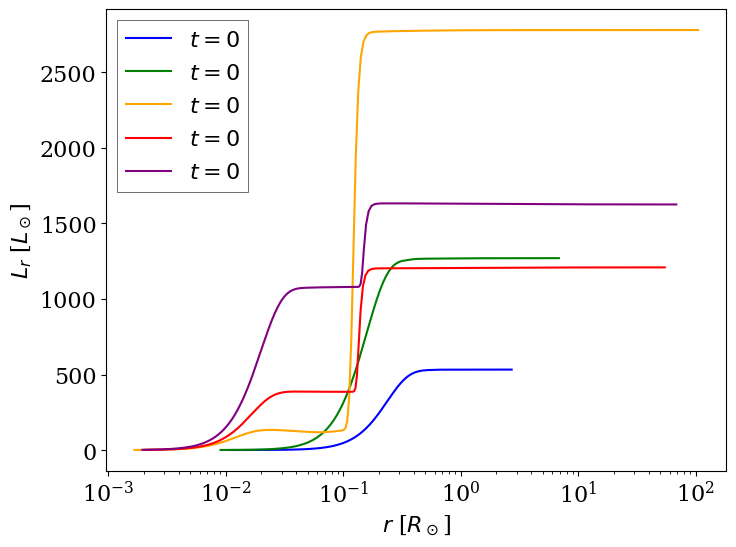
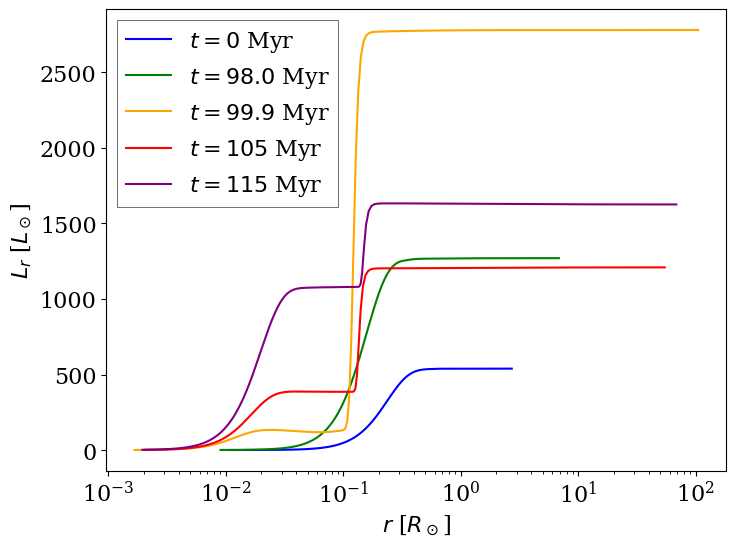
Updated plots with correct time labels

diff --git a/Python and Data/Task 3.1.py b/Python and Data/Task 3.1.py
@@ -1,153 +1,155 @@
 import Plots
-ax = Plots.setupPlots(horizontal=1,vertical=1)
-Plots.addPlot("M=5, Z=0.02",detailed=False,xvalues=2,yvalues=6,ax=ax,ylog=False,scatter=False,flipXaxis=False,label="$M=5M_\odot$, Z=0.02",color="red",markerSize=0)
-Plots.endPlots("Time-Ts, M=5, Z=0.02")
+# ax = Plots.setupPlots(horizontal=1,vertical=1)
+# Plots.addPlot("M=5, Z=0.02",detailed=False,xvalues=2,yvalues=6,ax=ax,ylog=False,scatter=False,flipXaxis=False,label="$M=5M_\odot$, Z=0.02",color="red",markerSize=0)
+# Plots.endPlots("Time-Ts, M=5, Z=0.02")
 
-ax = Plots.setupPlots(horizontal=1,vertical=1)
-Plots.addPlot("M=50, Z=0.02",detailed=False,xvalues=2,yvalues=6,ax=ax,ylog=False,scatter=False,flipXaxis=False,label="$M=50M_\odot$, Z=0.02",color="red",markerSize=0)
-Plots.endPlots("Time-Ts, M=50, Z=0.02")
+# ax = Plots.setupPlots(horizontal=1,vertical=1)
+# Plots.addPlot("M=50, Z=0.02",detailed=False,xvalues=2,yvalues=6,ax=ax,ylog=False,scatter=False,flipXaxis=False,label="$M=50M_\odot$, Z=0.02",color="red",markerSize=0)
+# Plots.endPlots("Time-Ts, M=50, Z=0.02")
 
-ax = Plots.setupPlots(horizontal=1,vertical=1)
-Plots.addPlot("M=5, Z=0.02",detailed=False,xvalues=2,yvalues=4,ax=ax,ylog=False,scatter=False,flipXaxis=False,label="$M=5M_\odot$, Z=0.02",color="red",markerSize=0)
-Plots.endPlots("Time-L, M=5, Z=0.02")
+# ax = Plots.setupPlots(horizontal=1,vertical=1)
+# Plots.addPlot("M=5, Z=0.02",detailed=False,xvalues=2,yvalues=4,ax=ax,ylog=False,scatter=False,flipXaxis=False,label="$M=5M_\odot$, Z=0.02",color="red",markerSize=0)
+# Plots.endPlots("Time-L, M=5, Z=0.02")
 
-ax = Plots.setupPlots(horizontal=1,vertical=1)
-Plots.addPlot("M=50, Z=0.02",detailed=False,xvalues=2,yvalues=4,ax=ax,ylog=False,scatter=False,flipXaxis=False,label="$M=50M_\odot$, Z=0.02",color="red",markerSize=0)
-Plots.endPlots("Time-L, M=50, Z=0.02")
+# ax = Plots.setupPlots(horizontal=1,vertical=1)
+# Plots.addPlot("M=50, Z=0.02",detailed=False,xvalues=2,yvalues=4,ax=ax,ylog=False,scatter=False,flipXaxis=False,label="$M=50M_\odot$, Z=0.02",color="red",markerSize=0)
+# Plots.endPlots("Time-L, M=50, Z=0.02")
 
-ax = Plots.setupPlots(horizontal=1,vertical=1)
-Plots.addPlot("M=5, Z=0.02",detailed=False,xvalues=2,yvalues=8,ax=ax,ylog=False,scatter=False,flipXaxis=False,label="$M=5M_\odot$, Z=0.02",color="red",markerSize=0)
-Plots.endPlots("Time-Rhoc, M=5, Z=0.02")
+# ax = Plots.setupPlots(horizontal=1,vertical=1)
+# Plots.addPlot("M=5, Z=0.02",detailed=False,xvalues=2,yvalues=8,ax=ax,ylog=False,scatter=False,flipXaxis=False,label="$M=5M_\odot$, Z=0.02",color="red",markerSize=0)
+# Plots.endPlots("Time-Rhoc, M=5, Z=0.02")
 
-ax = Plots.setupPlots(horizontal=1,vertical=1)
-Plots.addPlot("M=50, Z=0.02",detailed=False,xvalues=2,yvalues=8,ax=ax,ylog=False,scatter=False,flipXaxis=False,label="$M=50M_\odot$, Z=0.02",color="red",markerSize=0)
-Plots.endPlots("Time-Rhoc, M=50, Z=0.02")
+# ax = Plots.setupPlots(horizontal=1,vertical=1)
+# Plots.addPlot("M=50, Z=0.02",detailed=False,xvalues=2,yvalues=8,ax=ax,ylog=False,scatter=False,flipXaxis=False,label="$M=50M_\odot$, Z=0.02",color="red",markerSize=0)
+# Plots.endPlots("Time-Rhoc, M=50, Z=0.02")
 
-ax = Plots.setupPlots(horizontal=1,vertical=1)
-Plots.addPlot("M=5, Z=0.02",detailed=False,xvalues=2,yvalues=7,ax=ax,ylog=False,scatter=False,flipXaxis=False,label="$M=5M_\odot$, Z=0.02",color="red",markerSize=0)
-Plots.endPlots("Time-Tc, M=5, Z=0.02")
+# ax = Plots.setupPlots(horizontal=1,vertical=1)
+# Plots.addPlot("M=5, Z=0.02",detailed=False,xvalues=2,yvalues=7,ax=ax,ylog=False,scatter=False,flipXaxis=False,label="$M=5M_\odot$, Z=0.02",color="red",markerSize=0)
+# Plots.endPlots("Time-Tc, M=5, Z=0.02")
 
-ax = Plots.setupPlots(horizontal=1,vertical=1)
-Plots.addPlot("M=50, Z=0.02",detailed=False,xvalues=2,yvalues=7,ax=ax,ylog=False,scatter=False,flipXaxis=False,label="$M=50M_\odot$, Z=0.02",color="red",markerSize=0)
-Plots.endPlots("Time-Tc, M=50, Z=0.02")
+# ax = Plots.setupPlots(horizontal=1,vertical=1)
+# Plots.addPlot("M=50, Z=0.02",detailed=False,xvalues=2,yvalues=7,ax=ax,ylog=False,scatter=False,flipXaxis=False,label="$M=50M_\odot$, Z=0.02",color="red",markerSize=0)
+# Plots.endPlots("Time-Tc, M=50, Z=0.02")
+# # #----------------------
+# # ### Ts-L
+# ax = Plots.setupPlots(horizontal=1,vertical=1)
+# Plots.addPlot("M=5, Z=0.02",detailed=False,xvalues=6,yvalues=4,ax=ax,ylog=False,scatter=False,flipXaxis=False,label="$M=5M_\odot$, Z=0.02",color="blue",markerSize=0)
+# # Plots.endPlots("Ts-L, M=5, Z=0.02")
+
+# # ax = Plots.setupPlots(horizontal=1,vertical=1)
+# Plots.addPlot("M=50, Z=0.02",detailed=False,xvalues=6,yvalues=4,ax=ax,ylog=False,scatter=False,flipXaxis=False,label="$M=50M_\odot$, Z=0.02",color="red",markerSize=0)
+# Plots.endPlots("Ts-L, Z=0.02")
+
+# ### Ts-Rhoc
+# ax = Plots.setupPlots(horizontal=1,vertical=1)
+# Plots.addPlot("M=5, Z=0.02",detailed=False,xvalues=6,yvalues=8,ax=ax,ylog=False,scatter=False,flipXaxis=False,label="$M=5M_\odot$, Z=0.02",color="blue",markerSize=0)
+# # Plots.endPlots("Ts-Rhoc, M=5, Z=0.02")
+
+# # ax = Plots.setupPlots(horizontal=1,vertical=1)
+# Plots.addPlot("M=50, Z=0.02",detailed=False,xvalues=6,yvalues=8,ax=ax,ylog=False,scatter=False,flipXaxis=False,label="$M=50M_\odot$, Z=0.02",color="red",markerSize=0)
+# Plots.endPlots("Ts-Rhoc, Z=0.02")
+
+# ### Ts-Tc
+# ax = Plots.setupPlots(horizontal=1,vertical=1)
+# Plots.addPlot("M=5, Z=0.02",detailed=False,xvalues=6,yvalues=7,ax=ax,ylog=False,scatter=False,flipXaxis=False,label="$M=5M_\odot$, Z=0.02",color="blue",markerSize=0)
+# # Plots.endPlots("Ts-Tc, M=5, Z=0.02")
+
+# # ax = Plots.setupPlots(horizontal=1,vertical=1)
+# Plots.addPlot("M=50, Z=0.02",detailed=False,xvalues=6,yvalues=7,ax=ax,ylog=False,scatter=False,flipXaxis=False,label="$M=50M_\odot$, Z=0.02",color="red",markerSize=0)
+# Plots.endPlots("Ts-Tc, Z=0.02")
+
+# ### Tc-L
+# ax = Plots.setupPlots(horizontal=1,vertical=1)
+# Plots.addPlot("M=5, Z=0.02",detailed=False,xvalues=7,yvalues=4,ax=ax,ylog=False,scatter=False,flipXaxis=False,label="$M=5M_\odot$, Z=0.02",color="blue",markerSize=0)
+# # Plots.endPlots("Tc-L, M=5, Z=0.02")
+
+# # ax = Plots.setupPlots(horizontal=1,vertical=1)
+# Plots.addPlot("M=50, Z=0.02",detailed=False,xvalues=7,yvalues=4,ax=ax,ylog=False,scatter=False,flipXaxis=False,label="$M=50M_\odot$, Z=0.02",color="red",markerSize=0)
+# Plots.endPlots("Tc-L, Z=0.02")
+
+# ### Tc-Rhoc
+# ax = Plots.setupPlots(horizontal=1,vertical=1)
+# Plots.addPlot("M=5, Z=0.02",detailed=False,xvalues=7,yvalues=8,ax=ax,ylog=False,scatter=False,flipXaxis=False,label="$M=5M_\odot$, Z=0.02",color="blue",markerSize=0)
+# # Plots.endPlots("Tc-Rhoc, M=5, Z=0.02")
+
+# # ax = Plots.setupPlots(horizontal=1,vertical=1)
+# Plots.addPlot("M=50, Z=0.02",detailed=False,xvalues=7,yvalues=8,ax=ax,ylog=False,scatter=False,flipXaxis=False,label="$M=50M_\odot$, Z=0.02",color="red",markerSize=0)
+# Plots.endPlots("Tc-Rhoc, Z=0.02")
+
+# ### Rhoc-L
+# ax = Plots.setupPlots(horizontal=1,vertical=1)
+# Plots.addPlot("M=5, Z=0.02",detailed=False,xvalues=8,yvalues=4,ax=ax,ylog=False,scatter=False,flipXaxis=False,label="$M=5M_\odot$, Z=0.02",color="blue",markerSize=0)
+# # Plots.endPlots("Rhoc-L, M=5, Z=0.02")
+
+# # ax = Plots.setupPlots(horizontal=1,vertical=1)
+# Plots.addPlot("M=50, Z=0.02",detailed=False,xvalues=8,yvalues=4,ax=ax,ylog=False,scatter=False,flipXaxis=False,label="$M=50M_\odot$, Z=0.02",color="red",markerSize=0)
+# Plots.endPlots("Rhoc-L, Z=0.02")
+
 # #----------------------
-# ### Ts-L
+t_index_Mass5 = [1,100,300,500,700]
+t_index_Mass50 = [1,100,300,500,700]
+t_years_Mass5 = ["0","98.0","99.9","105","115"]
+t_years_Mass50 = ["0","3.1","3.8","4.1","4.2"]
 ax = Plots.setupPlots(horizontal=1,vertical=1)
-Plots.addPlot("M=5, Z=0.02",detailed=False,xvalues=6,yvalues=4,ax=ax,ylog=False,scatter=False,flipXaxis=False,label="$M=5M_\odot$, Z=0.02",color="blue",markerSize=0)
-# Plots.endPlots("Ts-L, M=5, Z=0.02")
-
-# ax = Plots.setupPlots(horizontal=1,vertical=1)
-Plots.addPlot("M=50, Z=0.02",detailed=False,xvalues=6,yvalues=4,ax=ax,ylog=False,scatter=False,flipXaxis=False,label="$M=50M_\odot$, Z=0.02",color="red",markerSize=0)
-Plots.endPlots("Ts-L, Z=0.02")
-
-### Ts-Rhoc
-ax = Plots.setupPlots(horizontal=1,vertical=1)
-Plots.addPlot("M=5, Z=0.02",detailed=False,xvalues=6,yvalues=8,ax=ax,ylog=False,scatter=False,flipXaxis=False,label="$M=5M_\odot$, Z=0.02",color="blue",markerSize=0)
-# Plots.endPlots("Ts-Rhoc, M=5, Z=0.02")
-
-# ax = Plots.setupPlots(horizontal=1,vertical=1)
-Plots.addPlot("M=50, Z=0.02",detailed=False,xvalues=6,yvalues=8,ax=ax,ylog=False,scatter=False,flipXaxis=False,label="$M=50M_\odot$, Z=0.02",color="red",markerSize=0)
-Plots.endPlots("Ts-Rhoc, Z=0.02")
-
-### Ts-Tc
-ax = Plots.setupPlots(horizontal=1,vertical=1)
-Plots.addPlot("M=5, Z=0.02",detailed=False,xvalues=6,yvalues=7,ax=ax,ylog=False,scatter=False,flipXaxis=False,label="$M=5M_\odot$, Z=0.02",color="blue",markerSize=0)
-# Plots.endPlots("Ts-Tc, M=5, Z=0.02")
-
-# ax = Plots.setupPlots(horizontal=1,vertical=1)
-Plots.addPlot("M=50, Z=0.02",detailed=False,xvalues=6,yvalues=7,ax=ax,ylog=False,scatter=False,flipXaxis=False,label="$M=50M_\odot$, Z=0.02",color="red",markerSize=0)
-Plots.endPlots("Ts-Tc, Z=0.02")
-
-### Tc-L
-ax = Plots.setupPlots(horizontal=1,vertical=1)
-Plots.addPlot("M=5, Z=0.02",detailed=False,xvalues=7,yvalues=4,ax=ax,ylog=False,scatter=False,flipXaxis=False,label="$M=5M_\odot$, Z=0.02",color="blue",markerSize=0)
-# Plots.endPlots("Tc-L, M=5, Z=0.02")
-
-# ax = Plots.setupPlots(horizontal=1,vertical=1)
-Plots.addPlot("M=50, Z=0.02",detailed=False,xvalues=7,yvalues=4,ax=ax,ylog=False,scatter=False,flipXaxis=False,label="$M=50M_\odot$, Z=0.02",color="red",markerSize=0)
-Plots.endPlots("Tc-L, Z=0.02")
-
-### Tc-Rhoc
-ax = Plots.setupPlots(horizontal=1,vertical=1)
-Plots.addPlot("M=5, Z=0.02",detailed=False,xvalues=7,yvalues=8,ax=ax,ylog=False,scatter=False,flipXaxis=False,label="$M=5M_\odot$, Z=0.02",color="blue",markerSize=0)
-# Plots.endPlots("Tc-Rhoc, M=5, Z=0.02")
-
-# ax = Plots.setupPlots(horizontal=1,vertical=1)
-Plots.addPlot("M=50, Z=0.02",detailed=False,xvalues=7,yvalues=8,ax=ax,ylog=False,scatter=False,flipXaxis=False,label="$M=50M_\odot$, Z=0.02",color="red",markerSize=0)
-Plots.endPlots("Tc-Rhoc, Z=0.02")
-
-### Rhoc-L
-ax = Plots.setupPlots(horizontal=1,vertical=1)
-Plots.addPlot("M=5, Z=0.02",detailed=False,xvalues=8,yvalues=4,ax=ax,ylog=False,scatter=False,flipXaxis=False,label="$M=5M_\odot$, Z=0.02",color="blue",markerSize=0)
-# Plots.endPlots("Rhoc-L, M=5, Z=0.02")
-
-# ax = Plots.setupPlots(horizontal=1,vertical=1)
-Plots.addPlot("M=50, Z=0.02",detailed=False,xvalues=8,yvalues=4,ax=ax,ylog=False,scatter=False,flipXaxis=False,label="$M=50M_\odot$, Z=0.02",color="red",markerSize=0)
-Plots.endPlots("Rhoc-L, Z=0.02")
-
-# #----------------------
-t_Mass5 = [0,100,300,500,700]
-t_Mass50 = [0,100,300,500,700]
-ax = Plots.setupPlots(horizontal=1,vertical=1)
-Plots.addPlot("M=5, Z=0.02",detailed=True,xvalues=2,yvalues=5,timeIndex=t_Mass5[0],ax=ax,ylog=True,xlog=True,scatter=False,flipXaxis=False,label="$t=0$",color="blue",markerSize=0)
-Plots.addPlot("M=5, Z=0.02",detailed=True,xvalues=2,yvalues=5,timeIndex=t_Mass5[1],ax=ax,ylog=True,xlog=True,scatter=False,flipXaxis=False,label="$t=0$",color="green",markerSize=0)
-Plots.addPlot("M=5, Z=0.02",detailed=True,xvalues=2,yvalues=5,timeIndex=t_Mass5[2],ax=ax,ylog=True,xlog=True,scatter=False,flipXaxis=False,label="$t=0$",color="orange",markerSize=0)
-Plots.addPlot("M=5, Z=0.02",detailed=True,xvalues=2,yvalues=5,timeIndex=t_Mass5[3],ax=ax,ylog=True,xlog=True,scatter=False,flipXaxis=False,label="$t=0$",color="red",markerSize=0)
-Plots.addPlot("M=5, Z=0.02",detailed=True,xvalues=2,yvalues=5,timeIndex=t_Mass5[4],ax=ax,ylog=True,xlog=True,scatter=False,flipXaxis=False,label="$t=0$",color="purple",markerSize=0)
+Plots.addPlot("M=5, Z=0.02",detailed=True,xvalues=2,yvalues=5,timeIndex=t_index_Mass5[0],ax=ax,ylog=True,xlog=True,scatter=False,flipXaxis=False,label="$t="+t_years_Mass5[0]+"$ Myr",color="blue",markerSize=0)
+Plots.addPlot("M=5, Z=0.02",detailed=True,xvalues=2,yvalues=5,timeIndex=t_index_Mass5[1],ax=ax,ylog=True,xlog=True,scatter=False,flipXaxis=False,label="$t="+t_years_Mass5[1]+"$ Myr",color="green",markerSize=0)
+Plots.addPlot("M=5, Z=0.02",detailed=True,xvalues=2,yvalues=5,timeIndex=t_index_Mass5[2],ax=ax,ylog=True,xlog=True,scatter=False,flipXaxis=False,label="$t="+t_years_Mass5[2]+"$ Myr",color="orange",markerSize=0)
+Plots.addPlot("M=5, Z=0.02",detailed=True,xvalues=2,yvalues=5,timeIndex=t_index_Mass5[3],ax=ax,ylog=True,xlog=True,scatter=False,flipXaxis=False,label="$t="+t_years_Mass5[3]+"$ Myr",color="red",markerSize=0)
+Plots.addPlot("M=5, Z=0.02",detailed=True,xvalues=2,yvalues=5,timeIndex=t_index_Mass5[4],ax=ax,ylog=True,xlog=True,scatter=False,flipXaxis=False,label="$t="+t_years_Mass5[4]+"$ Myr",color="purple",markerSize=0)
 Plots.endPlots("R-Rho, M=5, Z=0.02")
 
 ax = Plots.setupPlots(horizontal=1,vertical=1)
-Plots.addPlot("M=50, Z=0.02",detailed=True,xvalues=2,yvalues=5,timeIndex=t_Mass50[0],ax=ax,ylog=True,xlog=True,scatter=False,flipXaxis=False,label="$t=0$",color="blue",markerSize=0)
-Plots.addPlot("M=50, Z=0.02",detailed=True,xvalues=2,yvalues=5,timeIndex=t_Mass50[1],ax=ax,ylog=True,xlog=True,scatter=False,flipXaxis=False,label="$t=0$",color="green",markerSize=0)
-Plots.addPlot("M=50, Z=0.02",detailed=True,xvalues=2,yvalues=5,timeIndex=t_Mass50[2],ax=ax,ylog=True,xlog=True,scatter=False,flipXaxis=False,label="$t=0$",color="orange",markerSize=0)
-Plots.addPlot("M=50, Z=0.02",detailed=True,xvalues=2,yvalues=5,timeIndex=t_Mass50[3],ax=ax,ylog=True,xlog=True,scatter=False,flipXaxis=False,label="$t=0$",color="red",markerSize=0)
-Plots.addPlot("M=50, Z=0.02",detailed=True,xvalues=2,yvalues=5,timeIndex=t_Mass50[4],ax=ax,ylog=True,xlog=True,scatter=False,flipXaxis=False,label="$t=0$",color="purple",markerSize=0)
+Plots.addPlot("M=50, Z=0.02",detailed=True,xvalues=2,yvalues=5,timeIndex=t_index_Mass50[0],ax=ax,ylog=True,xlog=True,scatter=False,flipXaxis=False,label="$t="+t_years_Mass50[0]+"$ Myr",color="blue",markerSize=0)
+Plots.addPlot("M=50, Z=0.02",detailed=True,xvalues=2,yvalues=5,timeIndex=t_index_Mass50[1],ax=ax,ylog=True,xlog=True,scatter=False,flipXaxis=False,label="$t="+t_years_Mass50[1]+"$ Myr",color="green",markerSize=0)
+Plots.addPlot("M=50, Z=0.02",detailed=True,xvalues=2,yvalues=5,timeIndex=t_index_Mass50[2],ax=ax,ylog=True,xlog=True,scatter=False,flipXaxis=False,label="$t="+t_years_Mass50[2]+"$ Myr",color="orange",markerSize=0)
+Plots.addPlot("M=50, Z=0.02",detailed=True,xvalues=2,yvalues=5,timeIndex=t_index_Mass50[3],ax=ax,ylog=True,xlog=True,scatter=False,flipXaxis=False,label="$t="+t_years_Mass50[3]+"$ Myr",color="red",markerSize=0)
+Plots.addPlot("M=50, Z=0.02",detailed=True,xvalues=2,yvalues=5,timeIndex=t_index_Mass50[4],ax=ax,ylog=True,xlog=True,scatter=False,flipXaxis=False,label="$t="+t_years_Mass50[4]+"$ Myr",color="purple",markerSize=0)
 Plots.endPlots("R-Rho, M=50, Z=0.02")
 
 ax = Plots.setupPlots(horizontal=1,vertical=1)
-Plots.addPlot("M=5, Z=0.02",detailed=True,xvalues=2,yvalues=6,timeIndex=t_Mass5[0],ax=ax,ylog=False,xlog=True,scatter=False,flipXaxis=False,label="$t=0$",color="blue",markerSize=0)
-Plots.addPlot("M=5, Z=0.02",detailed=True,xvalues=2,yvalues=6,timeIndex=t_Mass5[1],ax=ax,ylog=False,xlog=True,scatter=False,flipXaxis=False,label="$t=0$",color="green",markerSize=0)
-Plots.addPlot("M=5, Z=0.02",detailed=True,xvalues=2,yvalues=6,timeIndex=t_Mass5[2],ax=ax,ylog=False,xlog=True,scatter=False,flipXaxis=False,label="$t=0$",color="orange",markerSize=0)
-Plots.addPlot("M=5, Z=0.02",detailed=True,xvalues=2,yvalues=6,timeIndex=t_Mass5[3],ax=ax,ylog=False,xlog=True,scatter=False,flipXaxis=False,label="$t=0$",color="red",markerSize=0)
-Plots.addPlot("M=5, Z=0.02",detailed=True,xvalues=2,yvalues=6,timeIndex=t_Mass5[4],ax=ax,ylog=False,xlog=True,scatter=False,flipXaxis=False,label="$t=0$",color="purple",markerSize=0)
+Plots.addPlot("M=5, Z=0.02",detailed=True,xvalues=2,yvalues=6,timeIndex=t_index_Mass5[0],ax=ax,ylog=False,xlog=True,scatter=False,flipXaxis=False,label="$t="+t_years_Mass5[0]+"$ Myr",color="blue",markerSize=0)
+Plots.addPlot("M=5, Z=0.02",detailed=True,xvalues=2,yvalues=6,timeIndex=t_index_Mass5[1],ax=ax,ylog=False,xlog=True,scatter=False,flipXaxis=False,label="$t="+t_years_Mass5[1]+"$ Myr",color="green",markerSize=0)
+Plots.addPlot("M=5, Z=0.02",detailed=True,xvalues=2,yvalues=6,timeIndex=t_index_Mass5[2],ax=ax,ylog=False,xlog=True,scatter=False,flipXaxis=False,label="$t="+t_years_Mass5[2]+"$ Myr",color="orange",markerSize=0)
+Plots.addPlot("M=5, Z=0.02",detailed=True,xvalues=2,yvalues=6,timeIndex=t_index_Mass5[3],ax=ax,ylog=False,xlog=True,scatter=False,flipXaxis=False,label="$t="+t_years_Mass5[3]+"$ Myr",color="red",markerSize=0)
+Plots.addPlot("M=5, Z=0.02",detailed=True,xvalues=2,yvalues=6,timeIndex=t_index_Mass5[4],ax=ax,ylog=False,xlog=True,scatter=False,flipXaxis=False,label="$t="+t_years_Mass5[4]+"$ Myr",color="purple",markerSize=0)
 Plots.endPlots("R-T, M=5, Z=0.02")
 
 ax = Plots.setupPlots(horizontal=1,vertical=1)
-Plots.addPlot("M=50, Z=0.02",detailed=True,xvalues=2,yvalues=6,timeIndex=t_Mass50[0],ax=ax,ylog=False,xlog=True,scatter=False,flipXaxis=False,label="$t=0$",color="blue",markerSize=0)
-Plots.addPlot("M=50, Z=0.02",detailed=True,xvalues=2,yvalues=6,timeIndex=t_Mass50[1],ax=ax,ylog=False,xlog=True,scatter=False,flipXaxis=False,label="$t=0$",color="green",markerSize=0)
-Plots.addPlot("M=50, Z=0.02",detailed=True,xvalues=2,yvalues=6,timeIndex=t_Mass50[2],ax=ax,ylog=False,xlog=True,scatter=False,flipXaxis=False,label="$t=0$",color="orange",markerSize=0)
-Plots.addPlot("M=50, Z=0.02",detailed=True,xvalues=2,yvalues=6,timeIndex=t_Mass50[3],ax=ax,ylog=False,xlog=True,scatter=False,flipXaxis=False,label="$t=0$",color="red",markerSize=0)
-Plots.addPlot("M=50, Z=0.02",detailed=True,xvalues=2,yvalues=6,timeIndex=t_Mass50[4],ax=ax,ylog=False,xlog=True,scatter=False,flipXaxis=False,label="$t=0$",color="purple",markerSize=0)
+Plots.addPlot("M=50, Z=0.02",detailed=True,xvalues=2,yvalues=6,timeIndex=t_index_Mass50[0],ax=ax,ylog=False,xlog=True,scatter=False,flipXaxis=False,label="$t="+t_years_Mass50[0]+"$ Myr",color="blue",markerSize=0)
+Plots.addPlot("M=50, Z=0.02",detailed=True,xvalues=2,yvalues=6,timeIndex=t_index_Mass50[1],ax=ax,ylog=False,xlog=True,scatter=False,flipXaxis=False,label="$t="+t_years_Mass50[1]+"$ Myr",color="green",markerSize=0)
+Plots.addPlot("M=50, Z=0.02",detailed=True,xvalues=2,yvalues=6,timeIndex=t_index_Mass50[2],ax=ax,ylog=False,xlog=True,scatter=False,flipXaxis=False,label="$t="+t_years_Mass50[2]+"$ Myr",color="orange",markerSize=0)
+Plots.addPlot("M=50, Z=0.02",detailed=True,xvalues=2,yvalues=6,timeIndex=t_index_Mass50[3],ax=ax,ylog=False,xlog=True,scatter=False,flipXaxis=False,label="$t="+t_years_Mass50[3]+"$ Myr",color="red",markerSize=0)
+Plots.addPlot("M=50, Z=0.02",detailed=True,xvalues=2,yvalues=6,timeIndex=t_index_Mass50[4],ax=ax,ylog=False,xlog=True,scatter=False,flipXaxis=False,label="$t="+t_years_Mass50[4]+"$ Myr",color="purple",markerSize=0)
 Plots.endPlots("R-T, M=50, Z=0.02")
 
 ax = Plots.setupPlots(horizontal=1,vertical=1)
-Plots.addPlot("M=5, Z=0.02",detailed=True,xvalues=2,yvalues=27,timeIndex=t_Mass5[0],ax=ax,ylog=False,xlog=True,scatter=False,flipXaxis=False,label="$t=0$",color="blue",markerSize=0)
-Plots.addPlot("M=5, Z=0.02",detailed=True,xvalues=2,yvalues=27,timeIndex=t_Mass5[1],ax=ax,ylog=False,xlog=True,scatter=False,flipXaxis=False,label="$t=0$",color="green",markerSize=0)
-Plots.addPlot("M=5, Z=0.02",detailed=True,xvalues=2,yvalues=27,timeIndex=t_Mass5[2],ax=ax,ylog=False,xlog=True,scatter=False,flipXaxis=False,label="$t=0$",color="orange",markerSize=0)
-Plots.addPlot("M=5, Z=0.02",detailed=True,xvalues=2,yvalues=27,timeIndex=t_Mass5[3],ax=ax,ylog=False,xlog=True,scatter=False,flipXaxis=False,label="$t=0$",color="red",markerSize=0)
-Plots.addPlot("M=5, Z=0.02",detailed=True,xvalues=2,yvalues=27,timeIndex=t_Mass5[4],ax=ax,ylog=False,xlog=True,scatter=False,flipXaxis=False,label="$t=0$",color="purple",markerSize=0)
+Plots.addPlot("M=5, Z=0.02",detailed=True,xvalues=2,yvalues=27,timeIndex=t_index_Mass5[0],ax=ax,ylog=False,xlog=True,scatter=False,flipXaxis=False,label="$t="+t_years_Mass5[0]+"$ Myr",color="blue",markerSize=0)
+Plots.addPlot("M=5, Z=0.02",detailed=True,xvalues=2,yvalues=27,timeIndex=t_index_Mass5[1],ax=ax,ylog=False,xlog=True,scatter=False,flipXaxis=False,label="$t="+t_years_Mass5[1]+"$ Myr",color="green",markerSize=0)
+Plots.addPlot("M=5, Z=0.02",detailed=True,xvalues=2,yvalues=27,timeIndex=t_index_Mass5[2],ax=ax,ylog=False,xlog=True,scatter=False,flipXaxis=False,label="$t="+t_years_Mass5[2]+"$ Myr",color="orange",markerSize=0)
+Plots.addPlot("M=5, Z=0.02",detailed=True,xvalues=2,yvalues=27,timeIndex=t_index_Mass5[3],ax=ax,ylog=False,xlog=True,scatter=False,flipXaxis=False,label="$t="+t_years_Mass5[3]+"$ Myr",color="red",markerSize=0)
+Plots.addPlot("M=5, Z=0.02",detailed=True,xvalues=2,yvalues=27,timeIndex=t_index_Mass5[4],ax=ax,ylog=False,xlog=True,scatter=False,flipXaxis=False,label="$t="+t_years_Mass5[4]+"$ Myr",color="purple",markerSize=0)
 Plots.endPlots("R-X, M=5, Z=0.02")
 
 ax = Plots.setupPlots(horizontal=1,vertical=1)
-Plots.addPlot("M=50, Z=0.02",detailed=True,xvalues=2,yvalues=27,timeIndex=t_Mass50[0],ax=ax,ylog=False,xlog=True,scatter=False,flipXaxis=False,label="$t=0$",color="blue",markerSize=0)
-Plots.addPlot("M=50, Z=0.02",detailed=True,xvalues=2,yvalues=27,timeIndex=t_Mass50[1],ax=ax,ylog=False,xlog=True,scatter=False,flipXaxis=False,label="$t=0$",color="green",markerSize=0)
-Plots.addPlot("M=50, Z=0.02",detailed=True,xvalues=2,yvalues=27,timeIndex=t_Mass50[2],ax=ax,ylog=False,xlog=True,scatter=False,flipXaxis=False,label="$t=0$",color="orange",markerSize=0)
-Plots.addPlot("M=50, Z=0.02",detailed=True,xvalues=2,yvalues=27,timeIndex=t_Mass50[3],ax=ax,ylog=False,xlog=True,scatter=False,flipXaxis=False,label="$t=0$",color="red",markerSize=0)
-Plots.addPlot("M=50, Z=0.02",detailed=True,xvalues=2,yvalues=27,timeIndex=t_Mass50[4],ax=ax,ylog=False,xlog=True,scatter=False,flipXaxis=False,label="$t=0$",color="purple",markerSize=0)
+Plots.addPlot("M=50, Z=0.02",detailed=True,xvalues=2,yvalues=27,timeIndex=t_index_Mass50[0],ax=ax,ylog=False,xlog=True,scatter=False,flipXaxis=False,label="$t="+t_years_Mass50[0]+"$ Myr",color="blue",markerSize=0)
+Plots.addPlot("M=50, Z=0.02",detailed=True,xvalues=2,yvalues=27,timeIndex=t_index_Mass50[1],ax=ax,ylog=False,xlog=True,scatter=False,flipXaxis=False,label="$t="+t_years_Mass50[1]+"$ Myr",color="green",markerSize=0)
+Plots.addPlot("M=50, Z=0.02",detailed=True,xvalues=2,yvalues=27,timeIndex=t_index_Mass50[2],ax=ax,ylog=False,xlog=True,scatter=False,flipXaxis=False,label="$t="+t_years_Mass50[2]+"$ Myr",color="orange",markerSize=0)
+Plots.addPlot("M=50, Z=0.02",detailed=True,xvalues=2,yvalues=27,timeIndex=t_index_Mass50[3],ax=ax,ylog=False,xlog=True,scatter=False,flipXaxis=False,label="$t="+t_years_Mass50[3]+"$ Myr",color="red",markerSize=0)
+Plots.addPlot("M=50, Z=0.02",detailed=True,xvalues=2,yvalues=27,timeIndex=t_index_Mass50[4],ax=ax,ylog=False,xlog=True,scatter=False,flipXaxis=False,label="$t="+t_years_Mass50[4]+"$ Myr",color="purple",markerSize=0)
 Plots.endPlots("R-X, M=50, Z=0.02")
 
 ax = Plots.setupPlots(horizontal=1,vertical=1)
-Plots.addPlot("M=5, Z=0.02",detailed=True,xvalues=2,yvalues=3,timeIndex=t_Mass5[0],ax=ax,ylog=False,xlog=True,scatter=False,flipXaxis=False,label="$t=0$",color="blue",markerSize=0)
-Plots.addPlot("M=5, Z=0.02",detailed=True,xvalues=2,yvalues=3,timeIndex=t_Mass5[1],ax=ax,ylog=False,xlog=True,scatter=False,flipXaxis=False,label="$t=0$",color="green",markerSize=0)
-Plots.addPlot("M=5, Z=0.02",detailed=True,xvalues=2,yvalues=3,timeIndex=t_Mass5[2],ax=ax,ylog=False,xlog=True,scatter=False,flipXaxis=False,label="$t=0$",color="orange",markerSize=0)
-Plots.addPlot("M=5, Z=0.02",detailed=True,xvalues=2,yvalues=3,timeIndex=t_Mass5[3],ax=ax,ylog=False,xlog=True,scatter=False,flipXaxis=False,label="$t=0$",color="red",markerSize=0)
-Plots.addPlot("M=5, Z=0.02",detailed=True,xvalues=2,yvalues=3,timeIndex=t_Mass5[4],ax=ax,ylog=False,xlog=True,scatter=False,flipXaxis=False,label="$t=0$",color="purple",markerSize=0)
+Plots.addPlot("M=5, Z=0.02",detailed=True,xvalues=2,yvalues=3,timeIndex=t_index_Mass5[0],ax=ax,ylog=False,xlog=True,scatter=False,flipXaxis=False,label="$t="+t_years_Mass5[0]+"$ Myr",color="blue",markerSize=0)
+Plots.addPlot("M=5, Z=0.02",detailed=True,xvalues=2,yvalues=3,timeIndex=t_index_Mass5[1],ax=ax,ylog=False,xlog=True,scatter=False,flipXaxis=False,label="$t="+t_years_Mass5[1]+"$ Myr",color="green",markerSize=0)
+Plots.addPlot("M=5, Z=0.02",detailed=True,xvalues=2,yvalues=3,timeIndex=t_index_Mass5[2],ax=ax,ylog=False,xlog=True,scatter=False,flipXaxis=False,label="$t="+t_years_Mass5[2]+"$ Myr",color="orange",markerSize=0)
+Plots.addPlot("M=5, Z=0.02",detailed=True,xvalues=2,yvalues=3,timeIndex=t_index_Mass5[3],ax=ax,ylog=False,xlog=True,scatter=False,flipXaxis=False,label="$t="+t_years_Mass5[3]+"$ Myr",color="red",markerSize=0)
+Plots.addPlot("M=5, Z=0.02",detailed=True,xvalues=2,yvalues=3,timeIndex=t_index_Mass5[4],ax=ax,ylog=False,xlog=True,scatter=False,flipXaxis=False,label="$t="+t_years_Mass5[4]+"$ Myr",color="purple",markerSize=0)
 Plots.endPlots("R-L, M=5, Z=0.02")
 
 ax = Plots.setupPlots(horizontal=1,vertical=1)
-Plots.addPlot("M=50, Z=0.02",detailed=True,xvalues=2,yvalues=3,timeIndex=t_Mass50[0],ax=ax,ylog=False,xlog=True,scatter=False,flipXaxis=False,label="$t=0$",color="blue",markerSize=0)
-Plots.addPlot("M=50, Z=0.02",detailed=True,xvalues=2,yvalues=3,timeIndex=t_Mass50[1],ax=ax,ylog=False,xlog=True,scatter=False,flipXaxis=False,label="$t=0$",color="green",markerSize=0)
-Plots.addPlot("M=50, Z=0.02",detailed=True,xvalues=2,yvalues=3,timeIndex=t_Mass50[2],ax=ax,ylog=False,xlog=True,scatter=False,flipXaxis=False,label="$t=0$",color="orange",markerSize=0)
-Plots.addPlot("M=50, Z=0.02",detailed=True,xvalues=2,yvalues=3,timeIndex=t_Mass50[3],ax=ax,ylog=False,xlog=True,scatter=False,flipXaxis=False,label="$t=0$",color="red",markerSize=0)
-Plots.addPlot("M=50, Z=0.02",detailed=True,xvalues=2,yvalues=3,timeIndex=t_Mass50[4],ax=ax,ylog=False,xlog=True,scatter=False,flipXaxis=False,label="$t=0$",color="purple",markerSize=0)
+Plots.addPlot("M=50, Z=0.02",detailed=True,xvalues=2,yvalues=3,timeIndex=t_index_Mass50[0],ax=ax,ylog=False,xlog=True,scatter=False,flipXaxis=False,label="$t="+t_years_Mass50[0]+"$ Myr",color="blue",markerSize=0)
+Plots.addPlot("M=50, Z=0.02",detailed=True,xvalues=2,yvalues=3,timeIndex=t_index_Mass50[1],ax=ax,ylog=False,xlog=True,scatter=False,flipXaxis=False,label="$t="+t_years_Mass50[1]+"$ Myr",color="green",markerSize=0)
+Plots.addPlot("M=50, Z=0.02",detailed=True,xvalues=2,yvalues=3,timeIndex=t_index_Mass50[2],ax=ax,ylog=False,xlog=True,scatter=False,flipXaxis=False,label="$t="+t_years_Mass50[2]+"$ Myr",color="orange",markerSize=0)
+Plots.addPlot("M=50, Z=0.02",detailed=True,xvalues=2,yvalues=3,timeIndex=t_index_Mass50[3],ax=ax,ylog=False,xlog=True,scatter=False,flipXaxis=False,label="$t="+t_years_Mass50[3]+"$ Myr",color="red",markerSize=0)
+Plots.addPlot("M=50, Z=0.02",detailed=True,xvalues=2,yvalues=3,timeIndex=t_index_Mass50[4],ax=ax,ylog=False,xlog=True,scatter=False,flipXaxis=False,label="$t="+t_years_Mass50[4]+"$ Myr",color="purple",markerSize=0)
 Plots.endPlots("R-L, M=50, Z=0.02")
